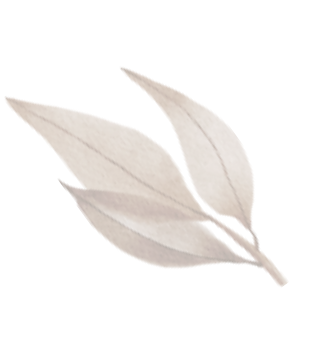
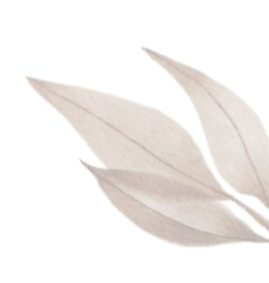
ajustes varios css

Changed region(s): [[0.0, 0.1696, 1.0, 0.8763], [0.3569, 0.4523, 0.3866, 0.4806], [0.3569, 0.1696, 0.3866, 0.1979]]

diff --git a/css/style.css b/css/style.css
@@ -182,7 +182,7 @@ h2{font-size: 4rem;}
 
 .line-trough{text-decoration: line-through;}
 .title{font-size: 122px;}
-.subtitle{font-size: 33px !important;font-weight: bold;}
+.subtitle{font-size: 28px !important;font-weight: bold;}
 .font-weight-medium{font-weight: 500;}
 .font-size-30{font-size: 30px;}
 .mr-3{margin-right: 1rem !important;}
@@ -198,7 +198,7 @@ h2{font-size: 4rem;}
     font-size: 110px;
     line-height: 1;
 }
-.hero-img{width: 700px;}
+.hero-img{width: 600px;}
 .ribbon{position: relative;margin-bottom: 70px;margin-top: 30px;}
 .ribbon::before{
     z-index: 0;
@@ -417,7 +417,7 @@ section.intro{
 #faq h2 {font-size: 40px;}
 #faq .bg-hoja {
     top: -150px;
-    right: -80px;
+    right: 0;
     position: absolute;
 }
 #faq .accordion-button:not(.collapsed) {
